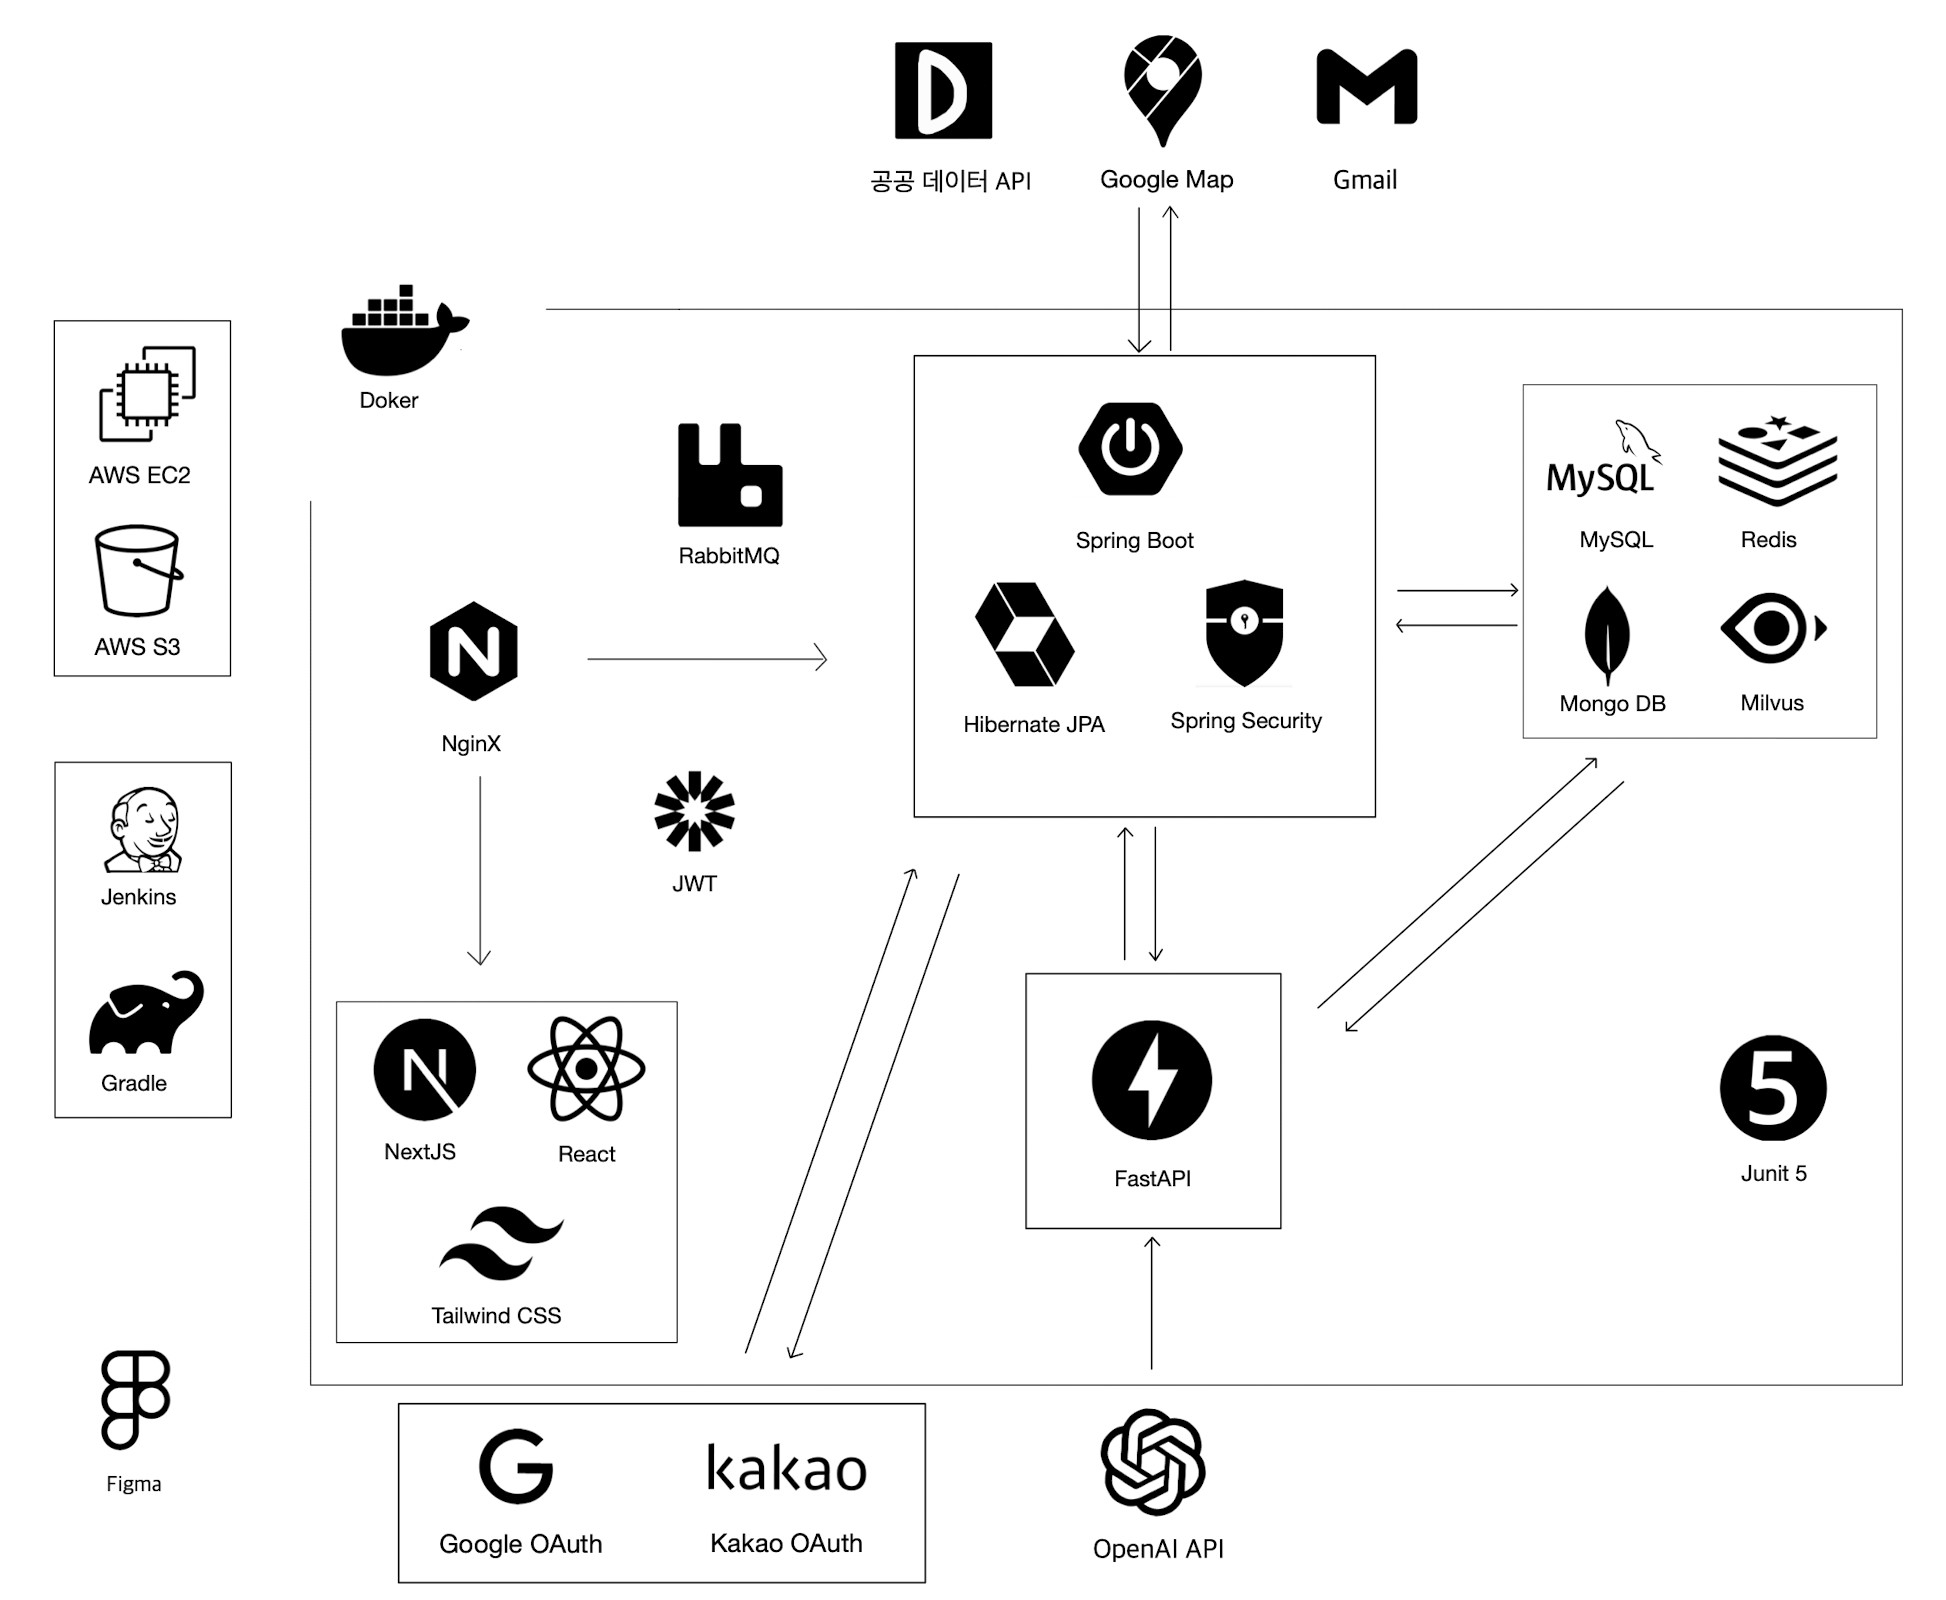
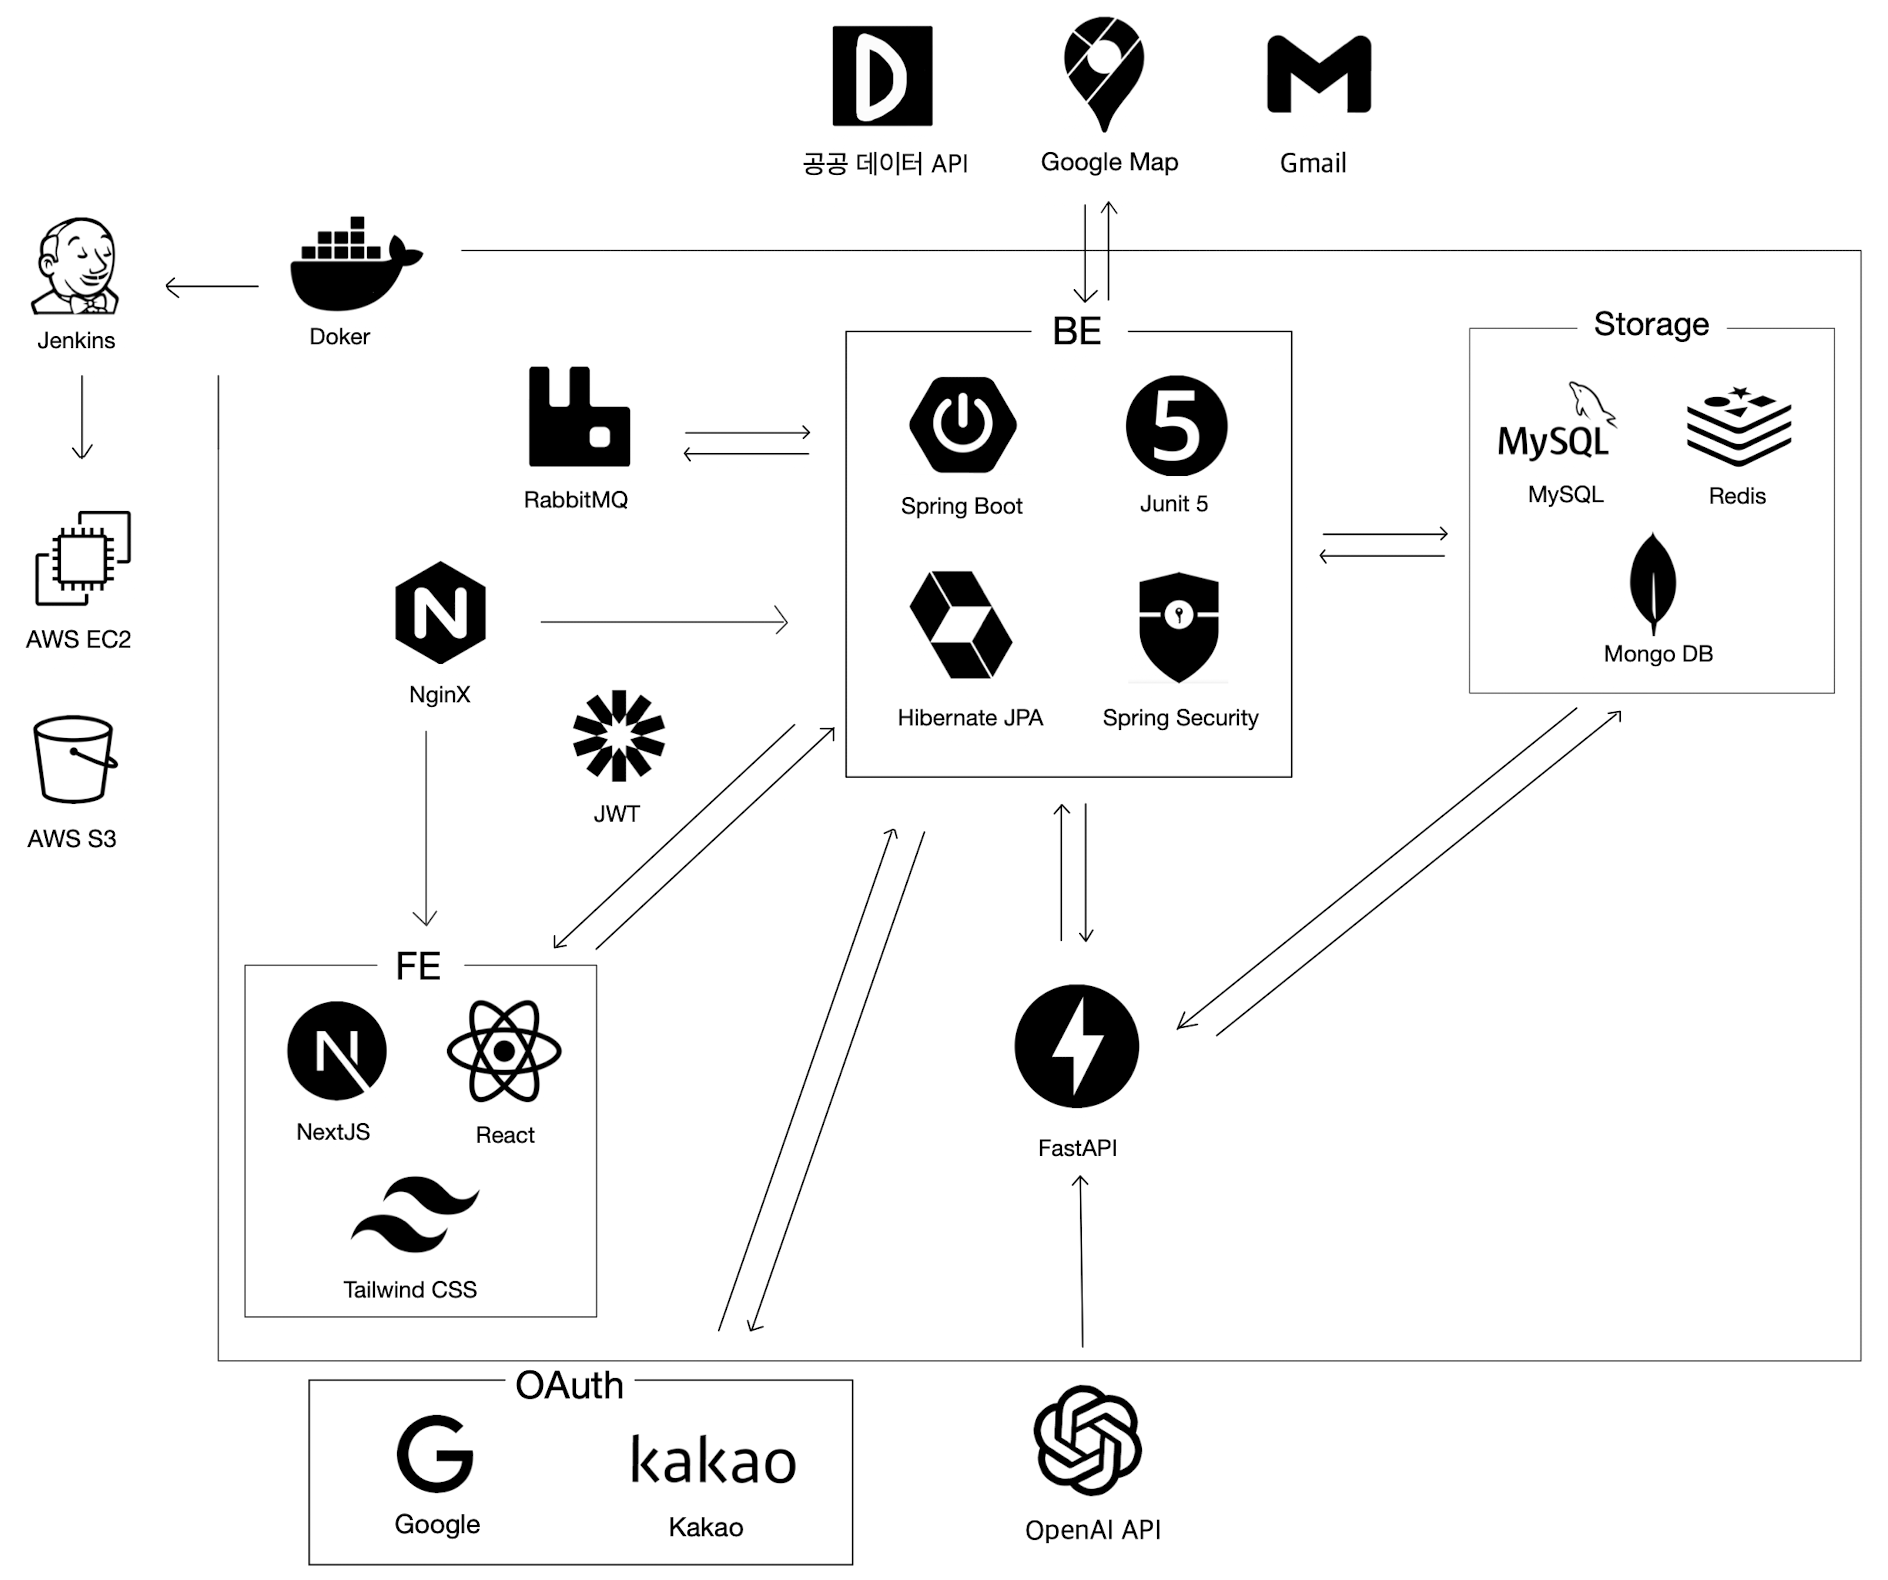
fix: DB 세션 재연결 로직 추가

diff --git a/FastAPI/app/services/animal_introduction.py b/FastAPI/app/services/animal_introduction.py
@@ -7,7 +7,9 @@ from typing import Tuple, List
 
 from app.core.config import settings
 from app.db.session import get_db_context
-from app.crud.animal import find_animal_by_id, find_recent_animal_ids_with_null_title
+from app.db.session import get_db_context, get_background_db_session
+from app.crud.animal import find_animal_by_id, find_recent_animal_ids_with_null_title, update_animal_introduction
+from app.utils.retry import with_db_retry
 
 logging.basicConfig(level=logging.INFO)
 logger = logging.getLogger(__name__)
@@ -123,23 +125,20 @@ class AnimalIntroductionService:
     
     async def update_introductions_batch(self, animal_ids: List[int]) -> None:
         async with get_db_context() as db:
-            for i in range(0, len(animal_ids), BATCH_SIZE):  # 상수 사용
+            for i in range(0, len(animal_ids), BATCH_SIZE):
                 batch = animal_ids[i:i+BATCH_SIZE]
                 for animal_id in batch:
+                    # 별도 세션을 사용하여 각 동물 업데이트를 독립적인 트랜잭션으로 처리
+                    db = await get_background_db_session()
                     try:
                         title, introduction = await self.generate_introduction(animal_id)
-                        animal = await find_animal_by_id(db, animal_id)
-
-                        if animal:
-                            animal.introduction_title = title
-                            animal.introduction_content = introduction
-                            db.add(animal)
-                            logger.info(f"동물 ID {animal_id} 업데이트 완료.")
+                        await update_animal_introduction(db, animal_id, title, introduction)
+                        logger.info(f"동물 ID {animal_id} 업데이트 완료.")
                     except Exception as e:
                         logger.error(f"동물 ID {animal_id} 업데이트 실패: {str(e)}")
-                        # 배치의 나머지는 계속 처리
+                    finally:
+                        await db.close()  # 사용 후 세션 명시적으로 닫기
 
-                await db.commit()
                 logger.info(f"배치 업데이트(commit) 완료 - 동물 ID 배치: {batch}")
 
 # 의존성 주입 제공자
@@ -149,6 +148,7 @@ def get_introduction_service() -> AnimalIntroductionService:
 async def update_animal_introductions(animal_ids, service: AnimalIntroductionService):
     await service.update_introductions_batch(animal_ids)
 
+@with_db_retry(max_retries=3)
 async def find_animals_without_introduction():
     async with get_db_context() as db:
         animal_ids = await find_recent_animal_ids_with_null_title(db)

diff --git a/FastAPI/app/utils/retry.py b/FastAPI/app/utils/retry.py
@@ -1,0 +1,52 @@
+# app/utils/retry.py
+import asyncio
+import logging
+from functools import wraps
+from sqlalchemy.exc import SQLAlchemyError, OperationalError, DatabaseError
+from pymysql.err import OperationalError as PyMySQLOperationalError
+
+logger = logging.getLogger(__name__)
+
+def with_db_retry(max_retries=3, retry_delay=1.0, backoff_factor=2.0):
+    """
+        max_retries (int): 최대 재시도 횟수
+        retry_delay (float): 첫 번째 재시도 전 대기 시간(초)
+        backoff_factor (float): 각 재시도마다 대기 시간에 곱해질 인자
+    """
+    def decorator(func):
+        @wraps(func)
+        async def wrapper(*args, **kwargs):
+            last_exception = None
+            current_delay = retry_delay
+            
+            for attempt in range(max_retries + 1):  # 원래 시도 + 재시도
+                try:
+                    return await func(*args, **kwargs)
+                except (SQLAlchemyError, PyMySQLOperationalError) as e:
+                    last_exception = e
+                    
+                    # 연결 관련 오류인지 확인 (재시도할만한 오류)
+                    is_connection_error = isinstance(e, OperationalError) or \
+                                        isinstance(e, DatabaseError) or \
+                                        "connection" in str(e).lower() or \
+                                        "timeout" in str(e).lower() or \
+                                        "reset by peer" in str(e).lower()
+                    
+                    # 마지막 시도이거나 재시도할 필요가 없는 오류인 경우
+                    if attempt >= max_retries or not is_connection_error:
+                        logger.error(f"Database operation failed after {attempt+1} attempts: {str(e)}")
+                        raise last_exception
+                    
+                    # 다음 시도 전 로깅 및 대기
+                    logger.warning(
+                        f"Database operation failed (attempt {attempt+1}/{max_retries+1}): {str(e)}. "
+                        f"Retrying in {current_delay:.2f}s..."
+                    )
+                    await asyncio.sleep(current_delay)
+                    current_delay *= backoff_factor  # 대기 시간 증가
+            
+            # 이 코드는 실행되지 않아야 하지만, 안전을 위해 추가
+            raise last_exception
+        
+        return wrapper
+    return decorator

diff --git a/FastAPI/app/crud/animal.py b/FastAPI/app/crud/animal.py
@@ -1,39 +1,69 @@
 # app/crud/animal.py
 import datetime
+import logging
 from sqlalchemy.future import select
 from app.models.animal import Animal
 from app.models.group import Group
+from sqlalchemy.exc import SQLAlchemyError
+from app.utils.retry import with_db_retry
 
+logger = logging.getLogger(__name__)
+
+@with_db_retry(max_retries=3)
 async def find_animal_by_id(db, animal_id: int):
     result = await db.execute(
         select(Animal).filter(Animal.id == animal_id)
     )
     return result.scalars().first()
 
+@with_db_retry(max_retries=3)
 async def find_all_animals(db):
     result = await db.execute(
         select(Animal).filter(Animal.removed_at.is_(None))
     )
     return result.scalars().all()
 
+@with_db_retry(max_retries=3)
 async def find_recent_animal_ids_with_null_title(db):
-    yesterday = datetime.datetime.now() - datetime.timedelta(days=1)
-    result = await db.execute(
-        select(Animal.id).filter(
-            Animal.introduction_title.is_(None),
-            Animal.created_date >= yesterday
+    try:
+        yesterday = datetime.datetime.now() - datetime.timedelta(days=1)
+        result = await db.execute(
+            select(Animal.id).filter(
+                Animal.introduction_title.is_(None),
+                Animal.created_date >= yesterday
+            )
         )
-    )
-    return result.scalars().all()
+        return result.scalars().all()
+    except SQLAlchemyError as e:
+        logger.error(f"Error finding animals without introduction: {str(e)}")
+        raise
 
+@with_db_retry(max_retries=3)
 async def find_group_by_id(db, group_id: int):
     result = await db.execute(
         select(Group).filter(Group.id == group_id)
     )
     return result.scalars().first()
 
+@with_db_retry(max_retries=3)
 async def find_all_groups(db):
     result = await db.execute(
         select(Group)
     )
     return result.scalars().all()
+
+@with_db_retry(max_retries=3)
+async def update_animal_introduction(db, animal_id: int, title: str, content: str):
+    try:
+        animal = await find_animal_by_id(db, animal_id)
+        if animal:
+            animal.introduction_title = title
+            animal.introduction_content = content
+            db.add(animal)
+            await db.commit()
+            return True
+        return False
+    except SQLAlchemyError as e:
+        await db.rollback()
+        logger.error(f"Error updating animal introduction for ID {animal_id}: {str(e)}")
+        raise

diff --git a/FastAPI/app/db/session.py b/FastAPI/app/db/session.py
@@ -3,15 +3,49 @@ from sqlalchemy.ext.asyncio import create_async_engine, AsyncSession
 from sqlalchemy.orm import sessionmaker
 from app.core.config import settings
 from contextlib import asynccontextmanager
+import logging
 
-engine = create_async_engine(settings.DATABASE_URL, future=True, echo=True)
+logger = logging.getLogger(__name__)
+
+engine = create_async_engine(
+    settings.DATABASE_URL,
+    future=True,
+    echo=False,
+    pool_size=5,                  # 기본 연결 풀 크기
+    max_overflow=10,              # 최대 추가 연결 수
+    pool_timeout=30,              # 연결 획득 타임아웃 (초)
+    pool_recycle=1800,            # 연결 재활용 시간 (30분)
+    pool_pre_ping=True,           # 연결 사용 전 상태 확인 (끊긴 연결 감지)
+    connect_args={
+        "connect_timeout": 10,    # 연결 시도 타임아웃
+    }
+)
+
 AsyncSessionLocal = sessionmaker(
     bind=engine,
     class_=AsyncSession,
-    expire_on_commit=False
+    expire_on_commit=False,
+    autoflush=False               # 필요할 때만 명시적으로 flush 하도록 설정
 )
 
 @asynccontextmanager
 async def get_db_context():
-    async with AsyncSessionLocal() as session:
+    session = AsyncSessionLocal()
+    try:
         yield session
+        await session.commit()
+    except Exception as e:
+        await session.rollback()
+        logger.error(f"Database session error: {str(e)}")
+        raise
+    finally:
+        await session.close()
+
+async def get_background_db_session():
+    session = AsyncSessionLocal()
+    try:
+        return session
+    except Exception as e:
+        await session.close()
+        logger.error(f"Failed to create background session: {str(e)}")
+        raise

diff --git a/README.md b/README.md
@@ -95,7 +95,7 @@ ii. 보호소는 일손 부족, 봉사자는 참여 기회 부족</br>
 > - FastAPI는 **OpenAI API**를 이용해 유기동물의 특징을 바탕으로 자연스러운 **소개글**을 작성하는 기능을 담당. </br>
 > - 공공 데이터 API는 유기동물 및 보호소의 **상세 정보**를 제공. 
 > - Google Maps API는 보호소 주소를 위도·경도로 변환하여 **위치** 데이터를 제공. </br>
-> - RabbitMQ는 채팅 시스템에서 **메시지 브로커** 역할을 하며, 안정적인 비동기 메시지 전송을 수행. </br>
+> - RabbitMQ는 채팅 시스템에서 **메시지 브로커** 역할을 하고, 안정적인 비동기 메시지 전송을 담당. </br>
 > - MongoDB는 채팅 데이터를 **저장**하여 대화 기록을 관리하고, 빠른 검색을 지원.
 > - JWT를 활용해 사용자 **인증**을 처리하고, Google OAuth 및 Kakao OAuth로 간편 로그인을 제공.
 </br>
@@ -105,12 +105,11 @@ ii. 보호소는 일손 부족, 봉사자는 참여 기회 부족</br>
 </br>
 
 > - 모든 트래픽은 Nginx(443 포트)를 통해 암호화된 **HTTPS**로만 접근 가능하며, Let’s Encrypt SSL 인증서를 적용하여 보안 강화.
-> - **내부 네트워크**에서만 Spring Boot ↔ MySQL, Redis, MongoDB, Milvus, FastAPI, RabbitMQ 간 통신 수행.
+> - **내부 네트워크**에서만 Spring Boot ↔ MySQL, Redis, MongoDB, FastAPI, RabbitMQ 간 통신 수행.
 > - Refresh Token은 httpOnly Secure 쿠키를 통해 전달되어 **XSS** 공격을 방지하고, SameSite 속성을 설정하여 **CSRF** 공격을 차단.
-> - Access Token **만료** 시, Next.js가 Refresh Token을 활용하여 Spring Boot에서 새 Access Token을 **자동 발급**.
-> - Next.js가 **API Gateway** 역할을 수행, 모든 API 요청을 사전에 검증한 후 Spring Boot로 전달하여 추가적인 보안 계층을 제공.
+> - Access Token **만료** 시, Next.js가 Refresh Token을 활용하여 Spring Boot에  새로운 Access Token **발급** 요청.
 > - JPA의 **파리미터 바인딩**을 활용한 안전한 쿼리 실행으로 **SQL Injection** 방지.
-> - Nginx에서 **Rate Limiting**을 적용하여 대량의 요청 차단 및 **CORS** 정책을 통해 허용된 도메인에서만 API 접근 가능.
+> - **Rate Limiting**을 적용하여 대량의 요청을 차단하고, **CORS** 정책을 통해 허용된 도메인에서만 API 접근 가능하도록 설정.
 
 </br>
 
@@ -131,14 +130,13 @@ ii. 보호소는 일손 부족, 봉사자는 참여 기회 부족</br>
 ### 2.2. 사용 기술
 | 번호 | 기술          | 버전  | 번호 | 기술         | 버전  |
 |:----:|:------------:|:-----:|:----:|:-----------:|:-----:|
-| 1    | MySQL        | 8.0.33 | 9   | NextJS      | 12    |
-| 2    | Java JDK     | 17.0.9 | 10  | Junit5      | 5.10.2 |
-| 3    | JWT          | 4.3.0  | 11  | Nginx       | 1.26  |
-| 4    | MongoDB      | 2.2.0  | 12  | Tailwind CSS| 3.4.3 |
-| 5    | RabbitMQ     | 3.13.0 | 13  | Jenkins     | 2.452.2 |
-| 6    | FastAPI      | 0.110.3 | 14  | Gradle      | 8.5 |
-| 7    | Spring Boot  | 3.2.0  | 15  | Figma       | UI3 |
-| 8    | Milvus       | 2.4.1  |     |             |       |
+| 1    | MySQL        | 8.0.33 | 8   | NextJS      | 12    |
+| 2    | Java JDK     | 17.0.9 | 9   | Junit5      | 5.10.2 |
+| 3    | JWT          | 4.3.0  | 10  | Nginx       | 1.26  |
+| 4    | MongoDB      | 2.2.0  | 11  | Tailwind CSS| 3.4.3 |
+| 5    | RabbitMQ     | 3.13.0 | 12  | Jenkins     | 2.452.2 |
+| 6    | FastAPI      | 0.110.3 | 13  | Gradle      | 8.5 |
+| 7    | Spring Boot  | 3.2.0  | 14  | Figma       | UI3 |
 </br>
 
 ## 3. 개발결과
